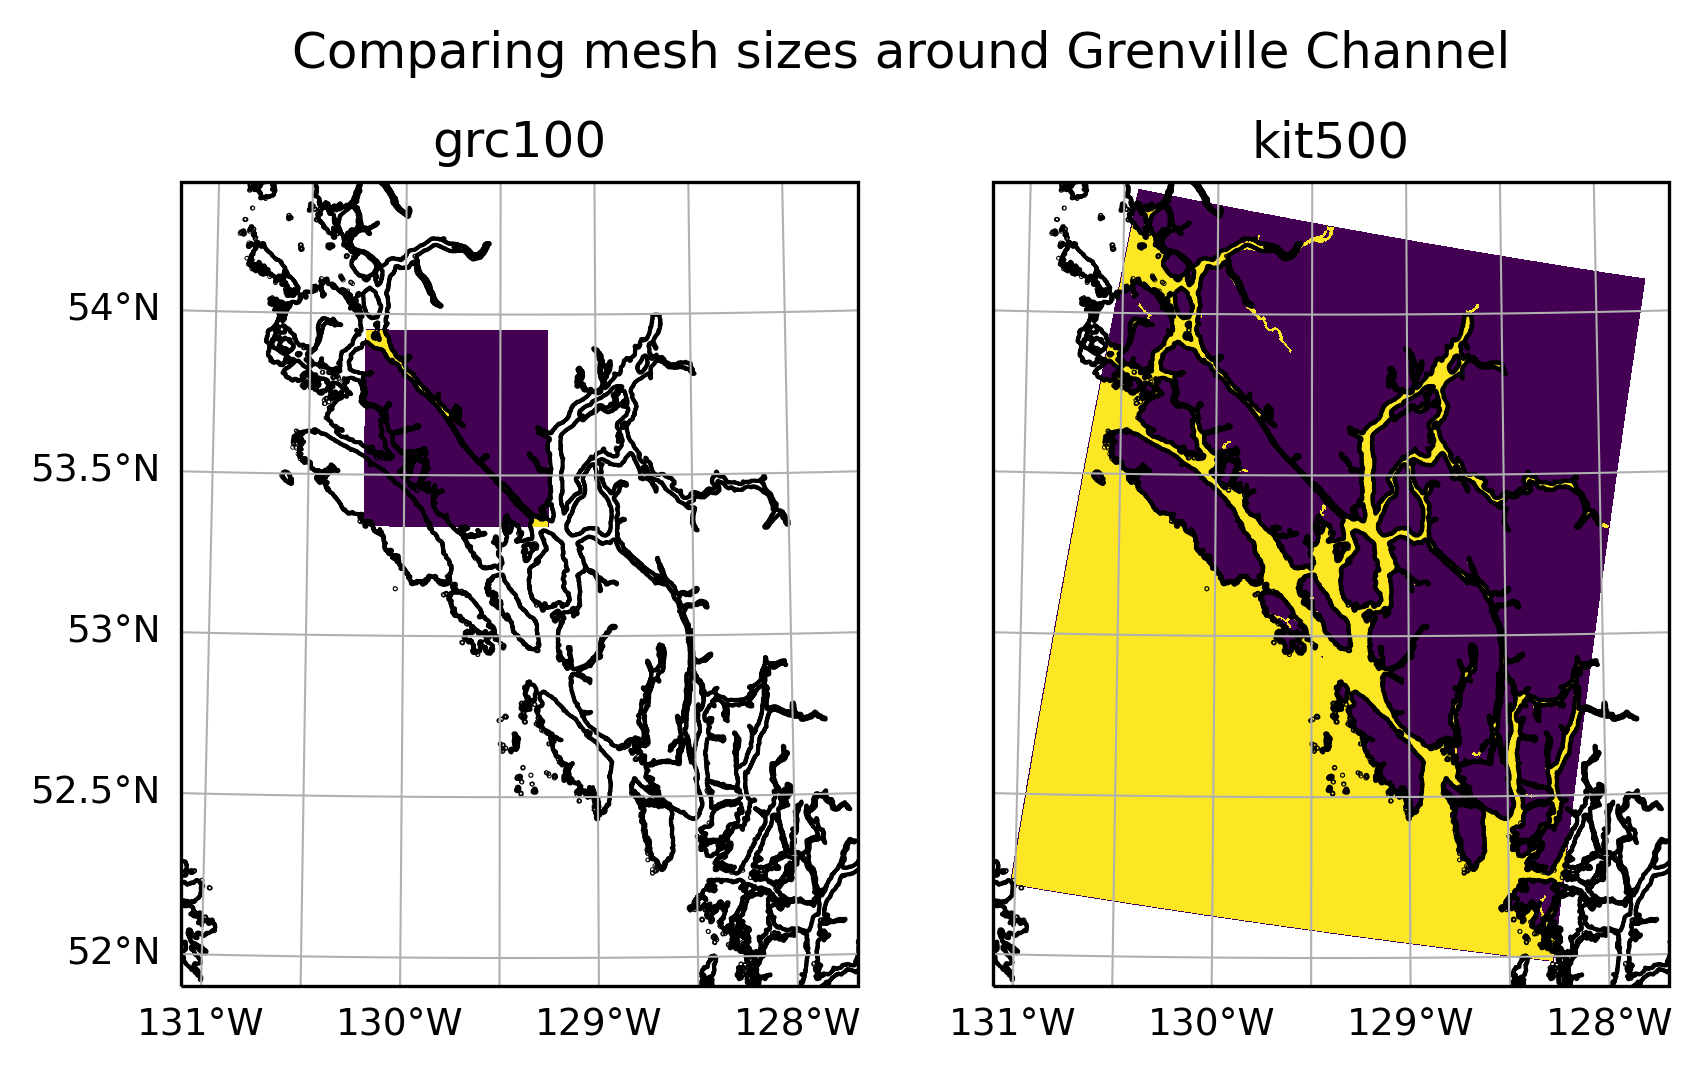
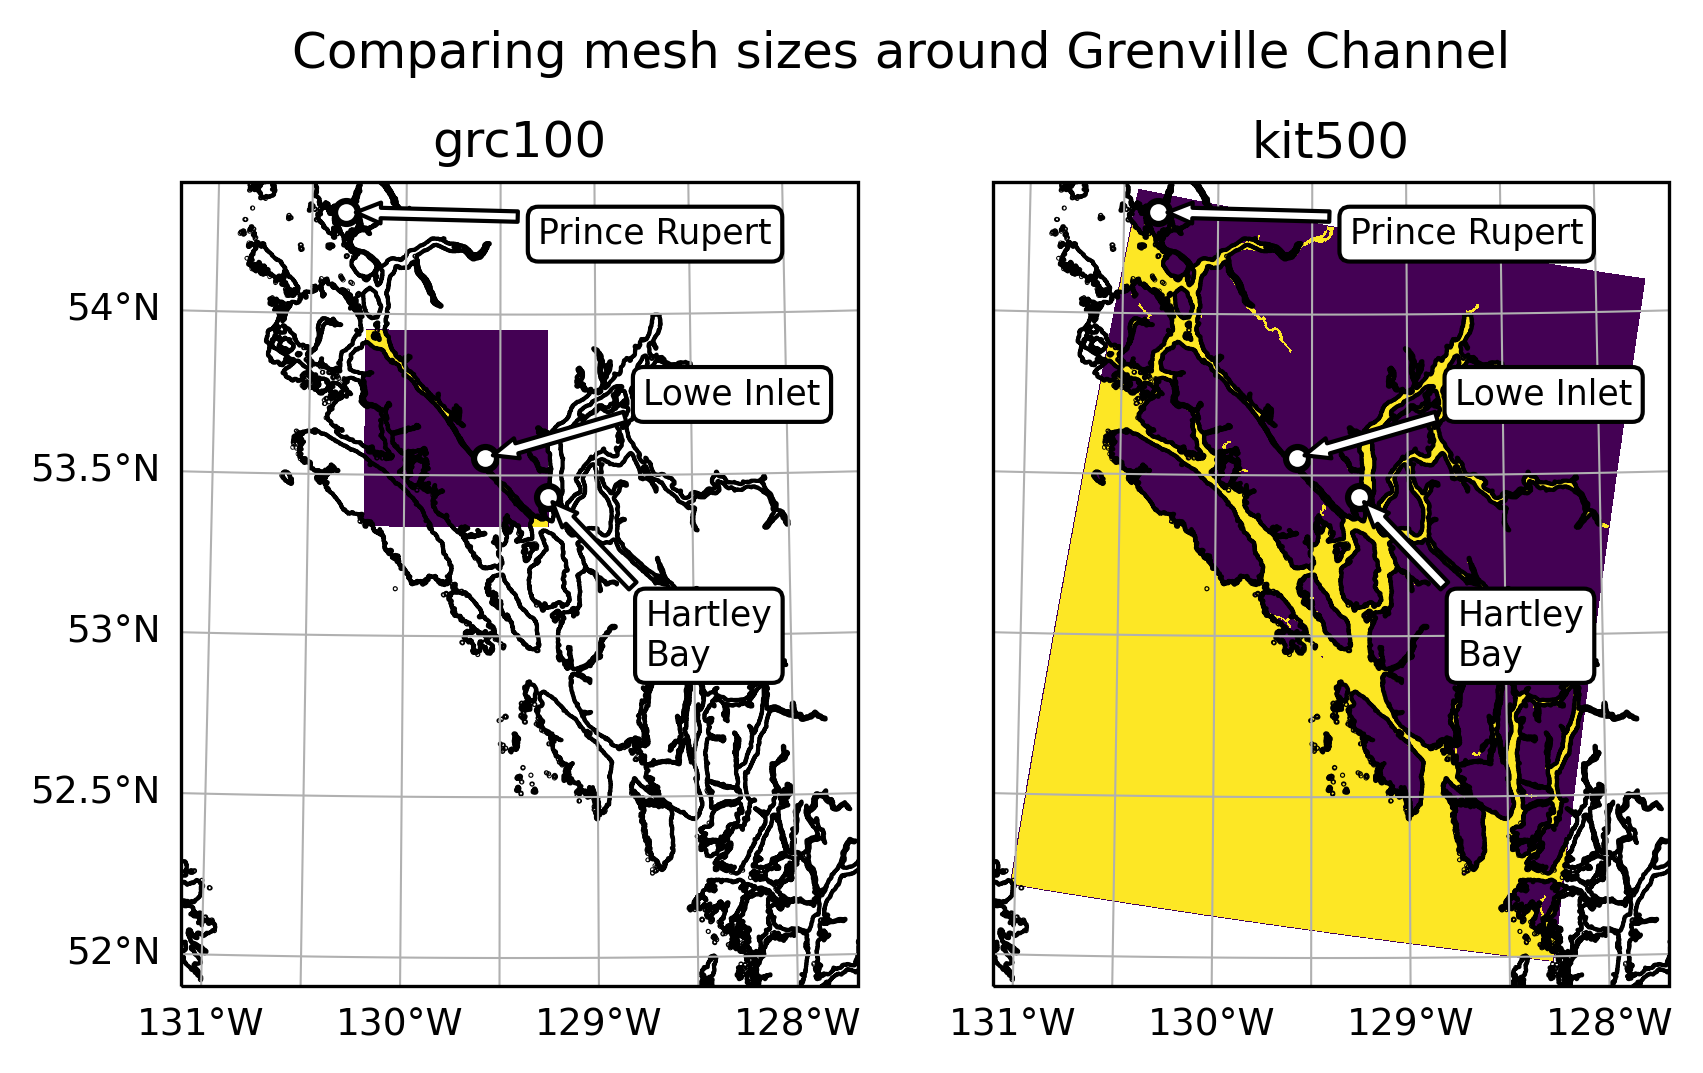
Added tide gauge locations to maps

diff --git a/tide_gauges_obs.py b/tide_gauges_obs.py
@@ -3,6 +3,7 @@
 import pandas as pd
 from datetime import datetime, date
 import matplotlib.pyplot as plt
+import pytide
 
 file_name = {
         'PrinceRupert': 'PrinceRupert_Jun012019-Nov202023.csv',
@@ -14,33 +15,59 @@ c1, c2, c3 = plt.cm.viridis([0, 0.5, 0.8])
 
 def tide_gauges():
 
-    tidal_gauges_obs_dir_path = '/mnt/storage3/tahya/DFO/Observations/Tide_Gauges/'
+		#path to the tide gauge CSVs
+		tidal_gauges_obs_dir_path = '/mnt/storage3/tahya/DFO/Observations/Tide_Gauges/'
 
-    df_list = []
-    for location in file_name.keys():
-        obs_path = tidal_gauges_obs_dir_path + file_name[location]
-        df = pd.read_csv(obs_path, sep=",", header=None,engine='python')
-        df = df.drop(index=range(0,8), columns=[2])
-        df.columns = [location+'_date',location+'_val']
-        df[location+'_date'] = pd.to_datetime(df[location+'_date'],format = "%Y/%m/%d %H:%M")
-        df[location+'_val'] = df[location+'_val'].astype(float)
-        df_list.append(df)
+		#creating dataframe with the tide gauge data
+		df_list = []
+		for location in file_name.keys():
+				obs_path = tidal_gauges_obs_dir_path + file_name[location]
+				df = pd.read_csv(obs_path, sep=",", header=None,engine='python')
+				df = df.drop(index=range(0,8), columns=[2])
+				df.columns = [location+'_date',location+'_val']
+				df[location+'_date'] = pd.to_datetime(df[location+'_date'],format = "%Y/%m/%d %H:%M")
+				df[location+'_val'] = df[location+'_val'].astype(float)
+				mean = df[location+'_val'].mean()
+				df[location+'_val'] = df[location+'_val'] - mean
+				df_list.append(df)
+		df = pd.concat(df_list,axis=1)
 
-    df = pd.concat(df_list,axis=1)
-    fig,ax1 = plt.subplots()
-    df.plot(x='PrinceRupert_date', y='PrinceRupert_val', ax=ax1, color=c1)
-    df.plot(x='HartleyBay_date', y='HartleyBay_val', ax=ax1, color=c2)
-    df.plot(x='LoweInlet_date', y='LoweInlet_val', ax=ax1, color=c3)
+		#extending the 2014 Lowe Inlet data forward to match the other data
+		wt = pytide.WaveTable()
+		time = df['LoweInlet_date'].dropna().to_numpy()
+		h = df['LoweInlet_val'].dropna().to_numpy()
+		f, vu = wt.compute_nodal_modulations(time)
+		w = wt.harmonic_analysis(h, f, vu)
+		hp = wt.tide_from_tide_series(df['HartleyBay_date'].dropna().to_numpy(), w) #can change the time if you want!!
 
-    ax1.set_title('Tide Gauges')
-    ax1.set_ylabel('SSH')
-    ax1.set_xlabel('Date')
-    ax1.set_xlim([date(2020, 1, 1), date(2020, 1, 7)])
+		#IGNORE THIS SECTION
+		#wtM2 = pytide.WaveTable(["M2"])
+		#fM2, vuM2 = wtM2.compute_nodal_modulations(time)	
+		#wM2 = wtM2.harmonic_analysis(h, fM2, vuM2)
+		#hpM2 = wtM2.tide_from_tide_series(df['LoweInlet_date'].dropna().to_numpy(), wM2)
 
-    fig.savefig('plots/tide_gauges.png',dpi=300, bbox_inches="tight")
-    fig.clf()
+		#plotting
+		fig,ax1 = plt.subplots()
+		
+		#tide gauge data
+		df.plot(x='PrinceRupert_date', y='PrinceRupert_val', ax=ax1, color=c1, label='Prince Rupert observed')
+		df.plot(x='HartleyBay_date', y='HartleyBay_val', ax=ax1, color=c2, label='Hartley Bay observed')
+		#df.plot(x='LoweInlet_date', y='LoweInlet_val', ax=ax1, color=c3, label='Lowe Inlet observed')
 
-    print('done')
+		#modelled tides
+		ax1.plot(df['HartleyBay_date'].dropna().to_numpy(),hp,color=c1,label='Lowe Inlet harmonic model') #can change the time, so long as it is the same as when you made hp
+
+		ax1.legend()
+		ax1.set_title('Grenville Channel tides, mid-2020')
+		ax1.set_ylabel('SSH')
+		ax1.set_xlabel('Date')
+		#ax1.set_xlim([date(2020, 1, 1), date(2020, 1, 7)])
+		ax1.set_xlim([date(2020, 6, 1), date(2020, 6, 7)])
+
+		fig.savefig('plots/tide_gauges_2020.png',dpi=300, bbox_inches="tight")
+		fig.clf()
+
+		print('done')
 
 if __name__ == "__main__":
-    tide_gauges()
+		tide_gauges()

diff --git a/mesh_map.py b/mesh_map.py
@@ -12,6 +12,9 @@ import cartopy.feature as feature
 import matplotlib.ticker as mticker
 import matplotlib.colors as colors
 
+#useful colours for plotting
+c1, c2, c3 = plt.cm.viridis([0, 0.5, 0.8])
+
 def mesh_map():
 
 	#== setting up the map ==#
@@ -61,9 +64,24 @@ def mesh_map():
 		#plotting meshes
 		p = ax.pcolormesh(DS.nav_lon, DS.nav_lat, tmask, transform=ccrs.PlateCarree(), vmin=0, vmax=1, cmap=cm)
 
+		transform = ccrs.PlateCarree()._as_mpl_transform(ax)
+		
+		ax.plot(-129.2535, 53.4329, 'o', color='black', transform=ccrs.PlateCarree())
+		ax.plot(-129.2535, 53.4329, '.', color='white', transform=ccrs.PlateCarree())
+		
+		ax.plot(-129.5799, 53.5553, 'o', color='black', transform=ccrs.PlateCarree())
+		ax.plot(-129.5799, 53.5553, '.', color='white', transform=ccrs.PlateCarree())
+
+		ax.plot(-130.3208, 54.3150, 'o', color='black', transform=ccrs.PlateCarree())
+		ax.plot(-130.3208, 54.3150, '.', color='white', transform=ccrs.PlateCarree())
+
+		ax.annotate('Hartley\nBay', xy=(-129.2535, 53.4329),xytext=(-128.75, 53),arrowprops=dict(facecolor='white', shrink=0.05, width=2.5, headwidth=5, headlength=6), xycoords=transform, ha='left', va='center',bbox=dict(facecolor="white", edgecolor="black", boxstyle="round"),**{'backgroundcolor':'white','fontsize':'small'})#transform=ccrs.PlateCarree())#, zorder=12)
+		ax.annotate('Lowe Inlet', xy=(-129.5799, 53.5553),xytext=(-128.75, 53.75),arrowprops=dict(facecolor='white', shrink=0.05, width=2.5, headwidth=5, headlength=6), xycoords=transform, ha='left', va='center',bbox=dict(facecolor="white", edgecolor="black", boxstyle="round"),**{'backgroundcolor':'white','fontsize':'small'})#transform=ccrs.PlateCarree())#, zorder=12)
+		ax.annotate('Prince Rupert', xy=(-130.3208, 54.3150),xytext=(-129.3, 54.25),arrowprops=dict(facecolor='white', shrink=0.05, width=2.5, headwidth=5, headlength=6), xycoords=transform, ha='left', va='center',bbox=dict(facecolor="white", edgecolor="black", boxstyle="round"),**{'backgroundcolor':'white','fontsize':'small'})#transform=ccrs.PlateCarree())#, zorder=12)
+
 		#title
 		ax.set_title(mesh)
-
+		
 	#overall title
 	fig.suptitle('Comparing mesh sizes around Grenville Channel',y=0.88)
 
